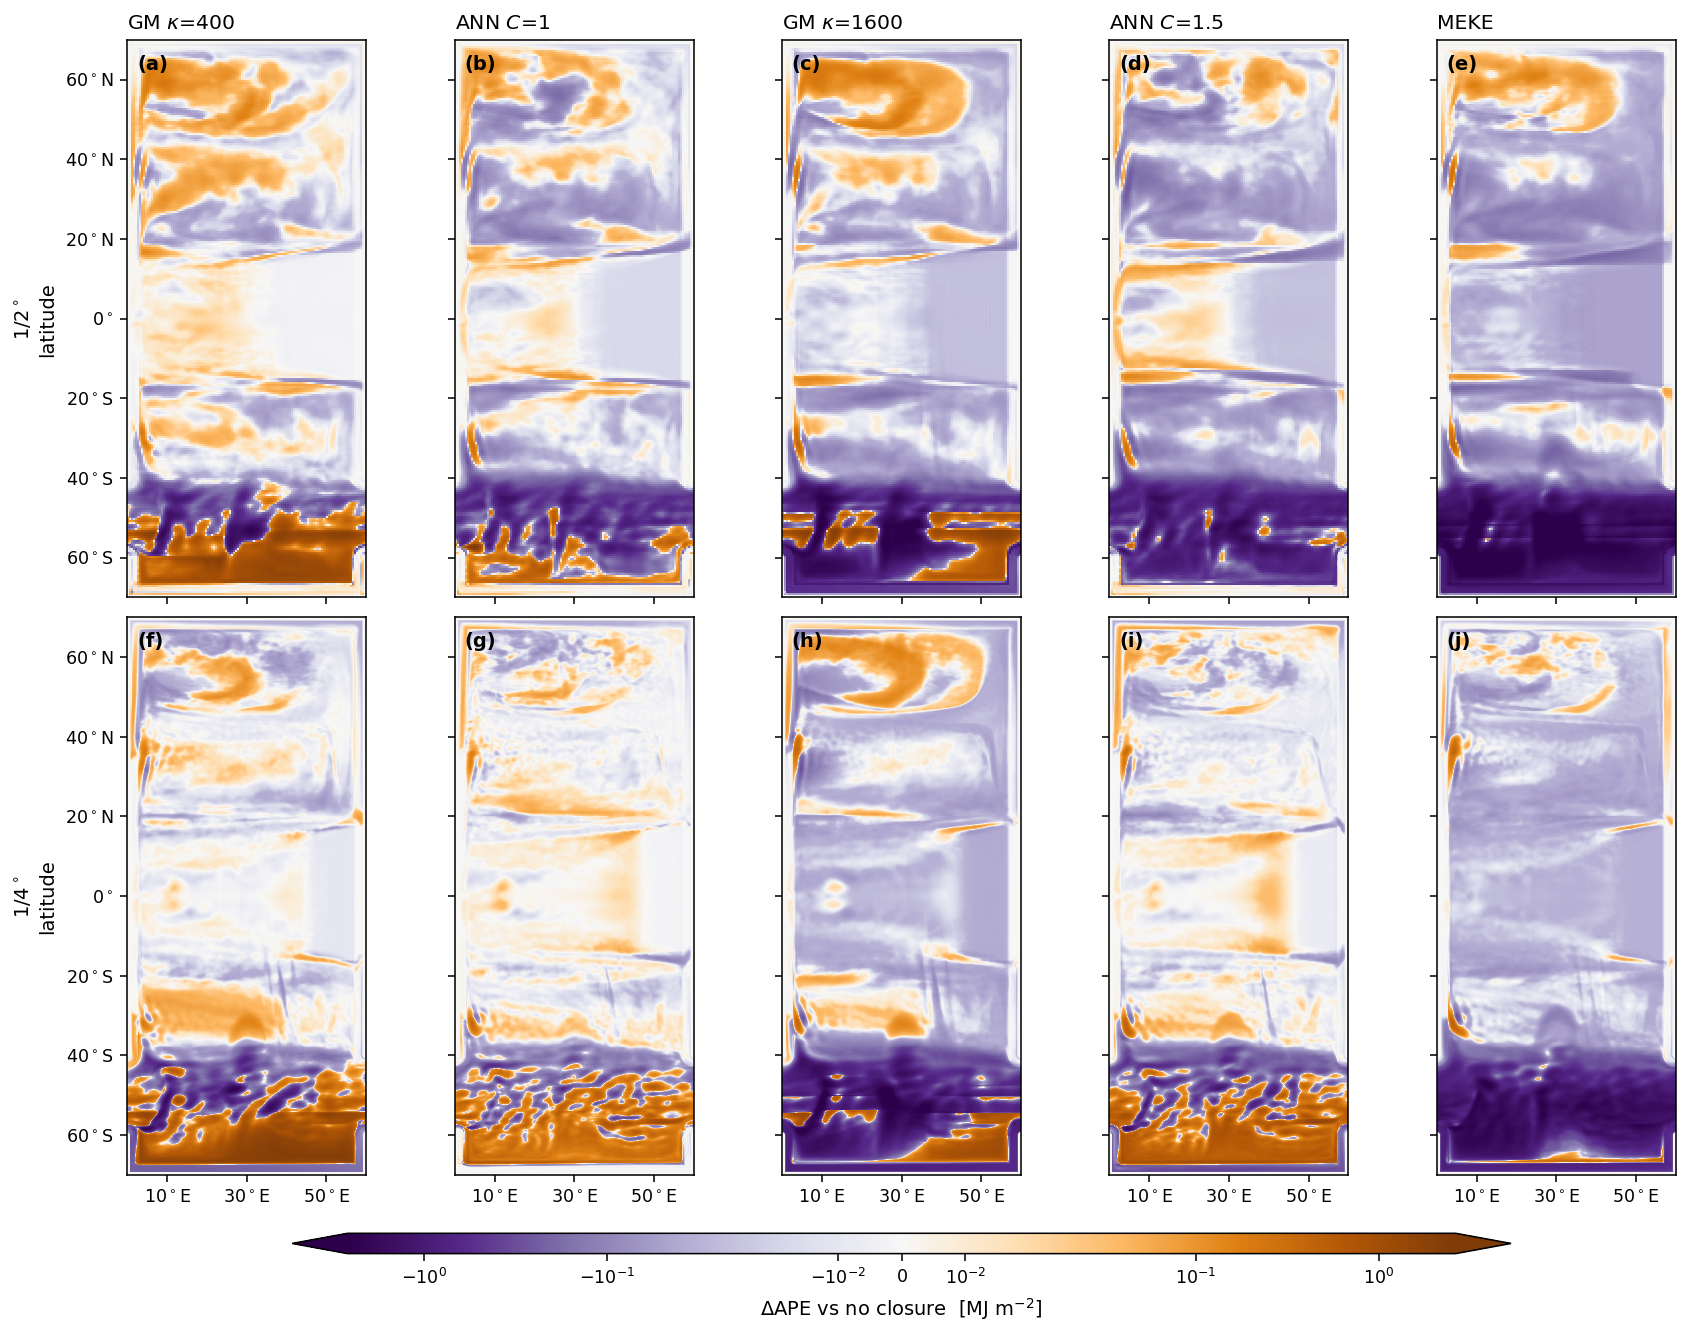
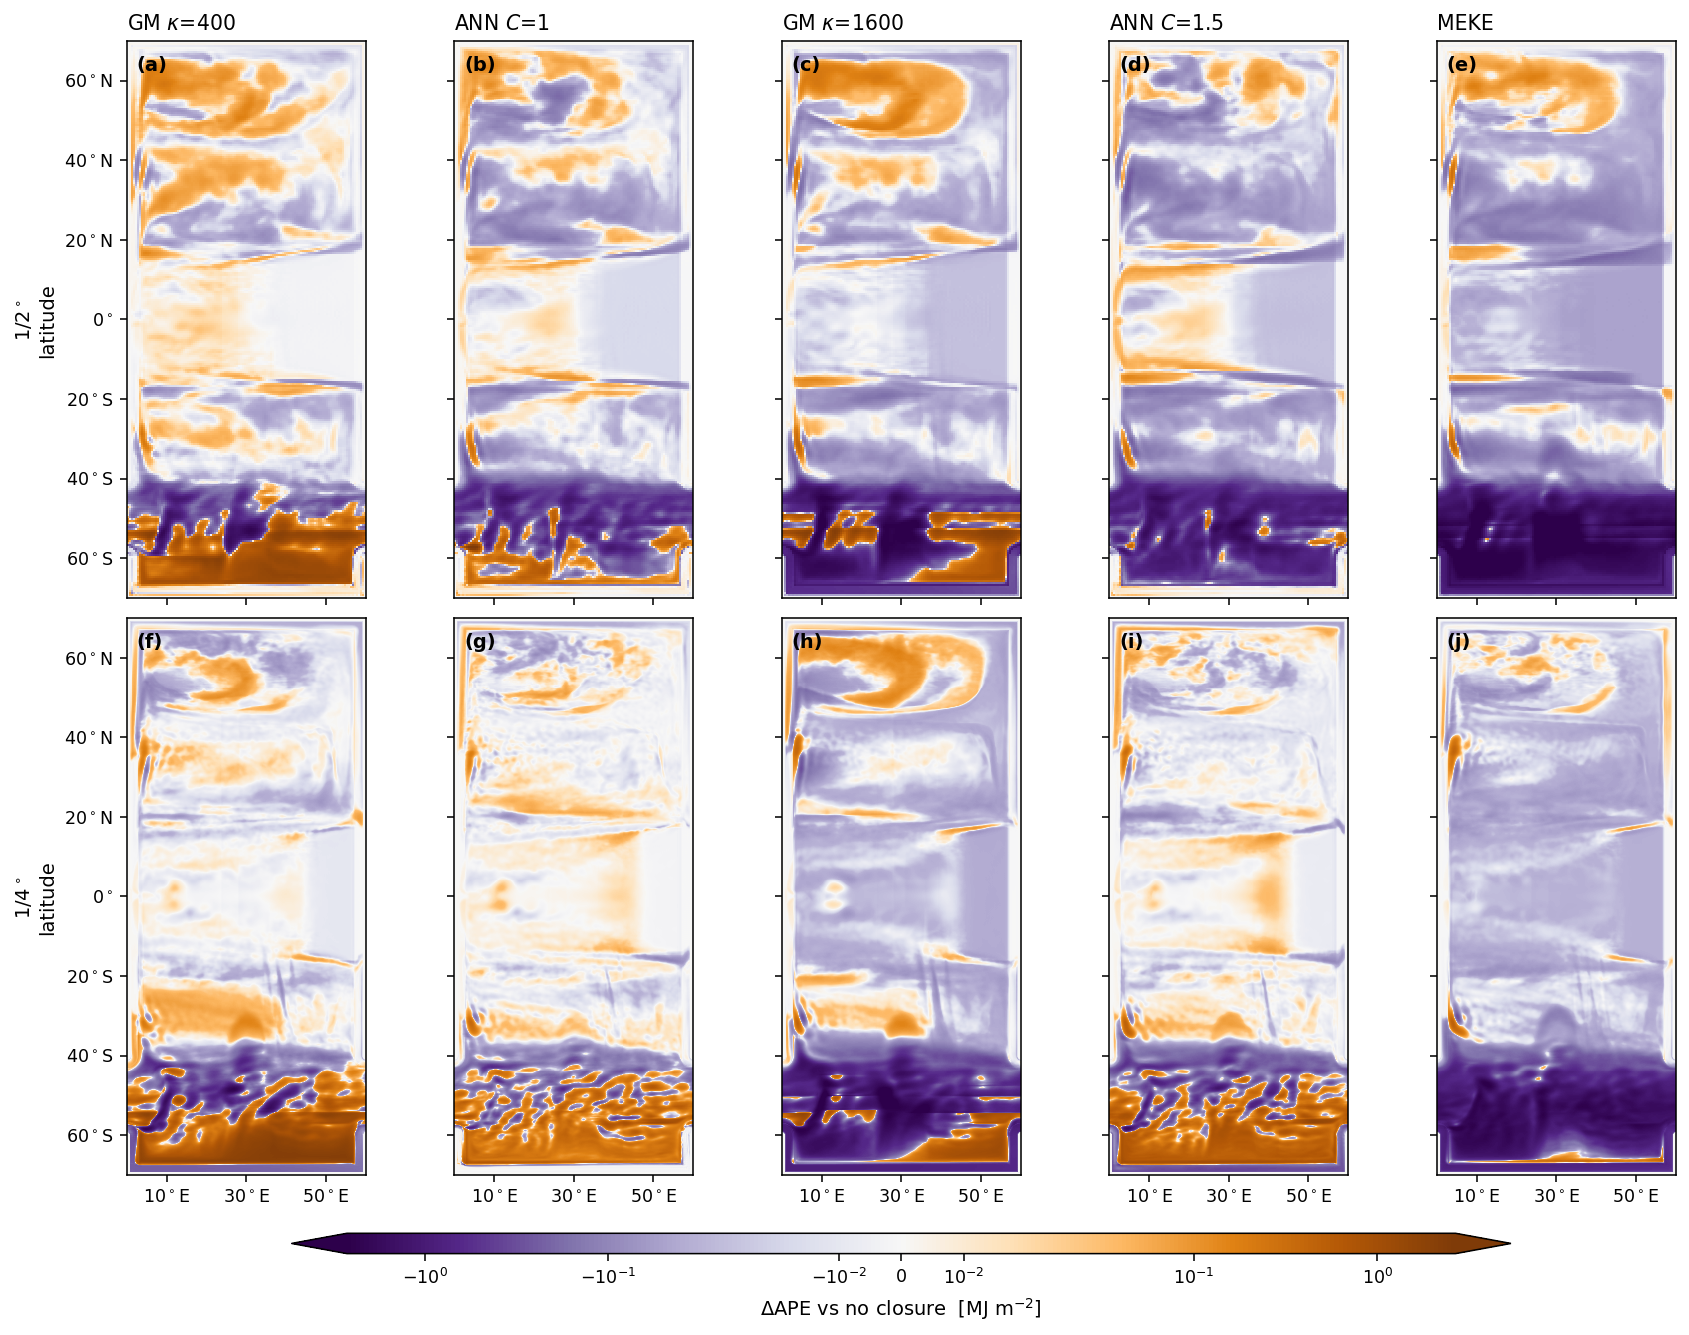
NW2 APE: G_EARTH is 10.0 in NW2, not 9.8 -- validated per-interface against ocean.stats (Dhruv's catch via the sharp dAPE jumps, which themselves are real outcrop fronts)
Claude-Session: https://claude.ai/code/session_013YxY5kSiCrM21jUwV4Z6dE

diff --git a/src/training-on-CM2.6/scripts/nw2_ape_vs_stats_check.py b/src/training-on-CM2.6/scripts/nw2_ape_vs_stats_check.py
@@ -1,0 +1,54 @@
+"""Pavel's gold-standard APE validation (Figure-3.ipynb cells 20-21), applied to NW2 R4 GM1600:
+compute per-interface APE from the day-37200 SNAPSHOT with nw2_common's functional and compare
+interface-by-interface against MOM6's own ocean.stats APE at the same instant."""
+import numpy as np, xarray as xr, sys
+sys.path.insert(0, "/home/db194/ANN-momentum-buoyancy-mesoscale/src/training-on-CM2.6/scripts")
+from nw2_common import G
+
+B = "/scratch/db194/mom6/jul2026_nw2_R4/GM1600/output"
+DAY = 37200.0
+
+sn = xr.open_dataset(f"{B}/snapshots_00037050.nc", decode_times=False)
+h = sn["h"].sel(time=DAY).values                       # (zl, yh, xh) instantaneous
+rho_l = sn["zl"].values
+sn.close()
+st = xr.open_dataset(f"{B}/ocean.stats.nc", decode_times=False)
+i_t = int(np.argmin(np.abs(st["Time"].values - DAY)))
+print(f"stats record at Time = {st['Time'].values[i_t]} (target {DAY})")
+ape_stats = st["APE"].values[i_t]                      # (16,) Joules per interface
+e_rest = -st["H0"].values[i_t]                         # (16,) same instant
+st.close()
+sg = xr.open_dataset(f"{B}/static.nc", decode_times=False)
+area = sg["area_t"].values
+D = sg["depth_ocean"].values                           # (yh, xh) positive down
+wet = sg["wet"].values > 0.5
+sg.close()
+
+# rebuild interfaces from instantaneous h, bottom-up: e[K]=-D, e[k]=e[k+1]+h[k]
+K = h.shape[0]
+e = np.empty((K + 1,) + h.shape[1:])
+e[K] = -np.where(wet, D, np.nan)
+for k in range(K - 1, -1, -1):
+    e[k] = e[k + 1] + h[k]
+
+drho = np.diff(rho_l)
+print(f"\n{'k':>3}{'e_rest':>10}{'mine [J]':>14}{'stats [J]':>14}{'ratio':>9}")
+tot_m = tot_s = 0.0
+for k in range(1, K):                                  # interior interfaces
+    er = e_rest[k]
+    hb = np.maximum(e[K] - er, 0.0)
+    a = 0.5 * G * drho[k - 1] * ((e[k] - er) ** 2 - hb ** 2)
+    mine = np.nansum(a * area * wet)
+    tot_m += mine; tot_s += ape_stats[k]
+    print(f"{k:>3}{er:>10.1f}{mine:>14.4e}{ape_stats[k]:>14.4e}{mine/ape_stats[k]:>9.4f}")
+print(f"{'sum':>3}{'':>10}{tot_m:>14.4e}{tot_s:>14.4e}{tot_m/tot_s:>9.4f}")
+print(f"(stats interface 0 [free surface], excluded: {ape_stats[0]:.3e} J; interface 15: {ape_stats[15]:.3e} J)")
+
+# --- and the front, in raw INSTANTANEOUS data: thickness above interface 8 across the jump
+lat = xr.open_dataset(f"{B}/snapshots_00037050.nc", decode_times=False)["yh"].values
+j0 = int(np.argmin(np.abs(lat - (-55.9))))
+print("\nraw instantaneous e8 = e[8] [m] vs latitude at four longitudes (front region):")
+lons = [30, 90, 150, 210]
+print(f"{'lat':>9}" + "".join(f"{'i_lon='+str(i):>12}" for i in lons))
+for j in range(j0, j0 + 14):
+    print(f"{lat[j]:>9.3f}" + "".join(f"{e[8, j, i]:>12.1f}" for i in lons))

diff --git a/src/training-on-CM2.6/scripts/nw2_common.py b/src/training-on-CM2.6/scripts/nw2_common.py
@@ -14,7 +14,10 @@ dAPE area-means happen to survive (adiabatic closures conserve layer volume, and
 cancels in differences) but dAPE maps are ~30% low in rms without the correction."""
 import numpy as np, xarray as xr, glob
 
-G = 9.8
+# NW2 runs with G_EARTH = 10.0 (MOM_parameter_doc.all, both rungs), NOT the 9.8 default.
+# Validated 2026-08-10: with 10.0 the per-interface APE of a day-37200 snapshot matches
+# ocean.stats.nc APE exactly (with 9.8 every interface was uniformly 0.9800 of stats).
+G = 10.0
 
 def last(base, run, stream, n=5):
     """The final n files of a stream, run under `base` (the last windows of the leg)."""

diff --git a/src/training-on-CM2.6/scripts/nw2_ape_eke_maps.py b/src/training-on-CM2.6/scripts/nw2_ape_eke_maps.py
@@ -21,7 +21,7 @@ import numpy as np, xarray as xr, glob
 import matplotlib; matplotlib.use("Agg"); import matplotlib.pyplot as plt
 
 B = "/scratch/db194/mom6/jul2026_nw2"
-RHO0, G, NWIN = 1035.0, 9.8, 5
+RHO0, NWIN = 1035.0, 5
 # paired for comparison: matched-response pair first, then the stronger pair, then MEKE
 ORDER = [("GM400", "GM $\\kappa$=400"), ("ANN_c1p0", "ANN $C$=1"),
          ("GM1600", "GM $\\kappa$=1600"), ("ANN_c1p5", "ANN $C$=1.5"),

diff --git a/src/training-on-CM2.6/scripts/nw2_ape_check.py b/src/training-on-CM2.6/scripts/nw2_ape_check.py
@@ -24,7 +24,7 @@ dAPE is a difference of one functional rather than of two differently-referenced
 import numpy as np, xarray as xr, glob
 
 B = "/scratch/db194/mom6/jul2026_nw2"
-G, NWIN = 9.8, 5
+G, NWIN = 10.0, 5   # G_EARTH=10.0 in NW2 (validated vs ocean.stats 2026-08-10)
 RUNS = ["bare", "GM400", "ANN_c1p0", "GM1600", "ANN_c1p5", "MEKE"]
 
 def last(run, s, n=NWIN): return sorted(glob.glob(f"{B}/{run}/output/{s}_*.nc"))[-n:]

diff --git a/src/training-on-CM2.6/scripts/nw2_vs_truth.py b/src/training-on-CM2.6/scripts/nw2_vs_truth.py
@@ -24,7 +24,7 @@ import matplotlib.pyplot as plt, cmocean
 
 B = "/scratch/db194/mom6/jul2026_nw2"
 T = "/scratch/pp2681/mom6/Neverworld2/simulations/R32/0.5-degree-coarsen-snapshots.nc"
-G, NWIN, RHO0 = 9.8, 5, 1035.0
+NWIN, RHO0 = 5, 1035.0
 ORDER = [("GM400", "GM $\\kappa$=400"), ("ANN_c1p0", "ANN $C$=1"),
          ("GM1600", "GM $\\kappa$=1600"), ("ANN_c1p5", "ANN $C$=1.5"), ("MEKE", "MEKE")]
 

diff --git a/src/training-on-CM2.6/scripts/nw2_ape_response.py b/src/training-on-CM2.6/scripts/nw2_ape_response.py
@@ -20,7 +20,7 @@ import numpy as np, xarray as xr, glob, string
 import matplotlib as mpl; mpl.use("Agg")
 import matplotlib.pyplot as plt
 
-G, NWIN = 9.8, 5
+NWIN = 5
 RUNGS = [("1/2$^\\circ$", "/scratch/db194/mom6/jul2026_nw2"),
          ("1/4$^\\circ$", "/scratch/db194/mom6/jul2026_nw2_R4")]
 ORDER = [("GM400", "GM $\\kappa$=400"), ("ANN_c1p0", "ANN $C$=1"),

diff --git a/src/training-on-CM2.6/scripts/nw2_ape_ke_maps.py b/src/training-on-CM2.6/scripts/nw2_ape_ke_maps.py
@@ -17,7 +17,7 @@ import numpy as np, xarray as xr, glob
 import matplotlib; matplotlib.use("Agg"); import matplotlib.pyplot as plt
 
 B = "/scratch/db194/mom6/jul2026_nw2"
-G, NWIN = 9.8, 5
+NWIN = 5
 ORDER = [("GM400", "GM $\\kappa$=400"), ("ANN_c1p0", "ANN $C$=1"),
          ("GM1600", "GM $\\kappa$=1600"), ("ANN_c1p5", "ANN $C$=1.5"), ("MEKE", "MEKE")]
 

diff --git a/src/training-on-CM2.6/scripts/nw2_energy_panels.py b/src/training-on-CM2.6/scripts/nw2_energy_panels.py
@@ -18,7 +18,7 @@ import matplotlib as mpl; mpl.use("Agg")
 import matplotlib.pyplot as plt, cmocean
 
 B = "/scratch/db194/mom6/jul2026_nw2"
-G, NWIN, RHO0 = 9.8, 5, 1035.0
+NWIN, RHO0 = 5, 1035.0
 ORDER = [("GM400", "GM $\\kappa$=400"), ("ANN_c1p0", "ANN $C$=1"),
          ("GM1600", "GM $\\kappa$=1600"), ("ANN_c1p5", "ANN $C$=1.5"), ("MEKE", "MEKE")]
 

diff --git a/PLAN.md b/PLAN.md
@@ -333,3 +333,4 @@ Using the M1 inventory, reduce the analysis sprawl to a canonical story.
 - **2026-08-07 (cont 7) — CORRECTION (Dhruv's catch): the "7.6× online/diag" was a UNIT SLIP; the true ratio is 0.78.** Dhruv asked whether the gap could come from how GMwork is defined and whether the offline number was computed true-to-MOM6. Two-part answer: **(1) Unit slip, the dominant effect:** Task B's `diag_channel_release.py` defines `G=9.8` but never applies it — the stored `ape_*` maps are `Υ·∇ₕρ·dz`, i.e. W/m² **divided by g** (its own pred/diag ratios are unit-free, so Task B's published 1.147 is unaffected). My V2 compared raw maps against GMwork's true W/m²: 7.643/9.8 = **0.780**. Analysis fixed (`channel_gmwork_analysis.py` now applies g; figure regenerated — the diagnosed panels are no longer artificially faint). **(2) Definitional differences that REMAIN, now at the ~20% level rather than 7×:** MOM6's GMwork is its own discrete PE budget (`Work_u += G·(uhtot·drdkDe_u − uhD·drdi_u·ē)` — a Ψ·Δ(Δρ·e) form on the run's OWN state, every timestep, post-mass-limit), whereas a_tap is the continuum identity Υ_tap·∇ₕρ on the FILTERED-TRUTH state, snapshot-sampled, without the mass limiter — so 0.78 bundles (attractor difference) × (mass-limit reduction) × (discrete-vs-continuum + boundary terms, the SI-Text-S4 class). **Corrected story:** the online scheme extracts ~0.78× the truth-diagnosed deployed release (and ~0.68× the offline ANN prediction of 1.147×), i.e. **slightly under rather than 7× over** — coherent with the mass limiter acting online but absent offline. V1, the GW ladder, and the remit numbers are unaffected (pure GMwork / pure transport). Lesson recorded: Task B's ape_* variables have no units attribute — added to the caveats; any future consumer must apply g.
 - **2026-08-07 (cont 8) — Applied-release result ADDED TO THE PAPER** (paper commit d4f31c1). §4.1 gains two paragraphs + `fig:channel_applied_release` (5 panels: truth-diagnosed, ANN-offline-predicted, then ANN/GM/MEKE online GMwork, one colour scale) placed after the energetics paragraphs, before the retuning paragraph. Claims in prose: (i) offline→online loop closed — the ANN acts where the truth-diagnosed deployed release says the missing eddies would (r=0.72, 0.78 of integrated rate, shortfall attributed to mass limits + attractor + accounting, all stated); (ii) mechanism for the eddy-energy results — diffusive closures do ~2× the ANN's work (90/103 vs 52 GW at ¼°); (iii) scale-awareness in energy form — ANN total ~constant across the ladder (52/49/51 GW), "work set by the flow, not the grid". Discussion's co-design paragraph upgraded with the measured remit (12% at ¼°, 43% at 1°). Deliberately NOT in prose (in the CC note): GM/MEKE remit sums (not comparable — unbounded κs requests near outcrops). Task A + its paper integration now fully closed; remaining from the online-metrics plan: deliverable (b) σ2-overturning comparison (partially covered by existing §4.1 figures — check before making new ones).
 - **2026-08-07 (cont 9) — GM-column + instantaneous-ladder results ADDED TO THE PAPER** (paper commit bf3f7c9; Dhruv-approved). Three insertions: (1) §3.3 amplitude paragraph — channel cross-check sentence (deployed ratio 1.15 at ¼° on an independent simulation; provenance CC extended; deliberately NO Δ-axis placement claim, Δ/R_d differs between simulations at equal nominal Δ); (2) §4.1 new paragraph after the applied-release passage — the fitted-GM instantaneous ladder (κ*=250 explains <1% of flux variance; GM 0.09→0.37→0.78 vs ANN 0.93–0.97; "right on average, wrong event by event"; read as the mechanism behind fig:channel_ape_eke's EKE contrast) with full-caution CC (quasi-forced GM total not quoted as skill; MEKE has no offline column by design; zonal-mean sections don't discriminate); (3) §4.1 retuning paragraph — "the tunings are not mutually consistent": κ*=250 is 6× below the overturning-matching κ≈1500, ties to GM doing ~2× the ANN's work in fig:channel_applied_release. Cites balwada2025design for the rotational/along-gradient flux character.
+- **2026-08-10 — NW2 g CATCH (Dhruv's suspicion of the sharp ΔAPE jumps → full APE validation): NW2 runs with G_EARTH=10.0, not 9.8.** Dhruv flagged that the GM ΔAPE maps jump "too well aligned with a couple of latitudes" and asked for a check against Pavel's code. Outcome, three parts: **(1) The jumps are REAL** — the pinning term cancels exactly in run differences (float noise); the jump rows coincide with outcrop-status changes (GM1600 has 1–2 more interfaces outcropped than bare; interface 8, reference −1050 m, sits AT the surface); and the front is grid-row sharp in the raw INSTANTANEOUS snapshot h (e₈ jumps −3→−162/−290 m in one row; the front sits ~1° further south at some longitudes, so not literally one latitude). Strong GM physically relocates the ACC outcrop front and suppresses its meanders. **(2) Pavel's Figure-3.ipynb gold check applied to NW2 caught a constant:** per-interface APE of the day-37200 R4 GM1600 snapshot vs ocean.stats APE was uniformly 0.9800 at every interface = 9.8/10 → **NW2 uses G_EARTH=10.0** (confirmed in MOM_parameter_doc.all, both rungs; channel uses 9.8, so Task A/B channel numbers unaffected). With G=10 the match is 1.0000 at every interface incl. the pinned ones — functional now validated exactly against MOM6's own accounting (`scripts/nw2_ape_vs_stats_check.py`, kept as the audit). **(3) Impact: uniform +2% on all NW2 APE maps; no qualitative change.** `nw2_common.G=10.0` (single-source paid off — the figure scripts' local G=9.8 were DEAD variables, deleted); figures regenerated (nw2_ape_response paper PDF, nw2_ape_redistribution, nw2_vs_truth); §4.2 prose survives rounding (−52.9→"−52", +9.9→"+10", rms 102→"100"); the −4.6/−10.3/−18.0e18 J triple is from ocean.stats (model's own g) and was already correct. Also this session: nw2_timeseries.py (APE/KE vs time from stats, both rungs) + nw2_ape_redistribution.py (¼° maps + zonal means + cumulative area integral; ANN curves return to ~0, GM1600 −9, MEKE −14e18 J; endpoints cross-check stats). NOTE: /home file-count quota at 99% (30k cap, ~33k-file .vscode-server is the offender) — Dhruv should prune it.
